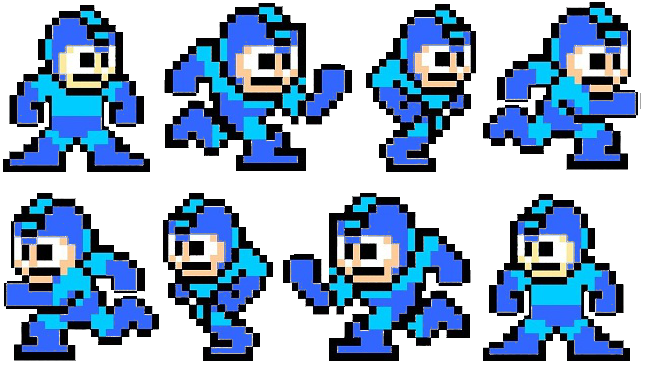
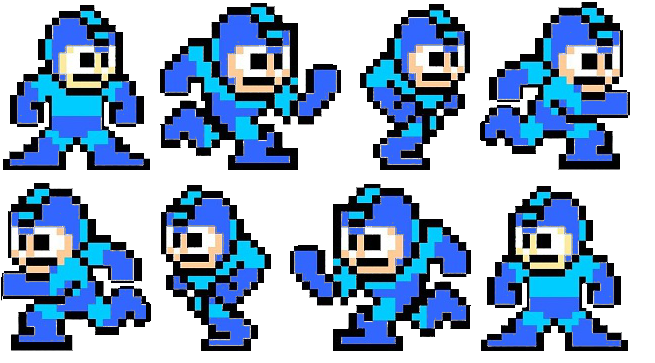
explosion sprite, background img
also made player movement better looking

diff --git a/main.js b/main.js
@@ -7,19 +7,10 @@ function init() {
 	projectile = [];
 	explosion = [];
 	platform = [];
+	lava_init(); //initializes lava attributes and animation
 	player_init(); //initializes player attributes
 	platform_init(); //creates platform objects. For now, is hardcoded, perhaps add randomization later
-	enemy_init();
-	lava.y = 500;
-	lava.vy = -.05;
-	lava.img = new Image();
-	lava.img.src = "lava.png";
-	lava.sx = [130, 100];
-	lava.sy = [690, 660];
-	lava.sWidth = [60, 20];
-	lava.sHeight = [10, 40];
-	lava.si = 0;
-	lava.sdelay = 0;
+	enemy_init(); //initializes enemy attributes
 	r_y = 0;
 	death_flag = false;
 	victory_flag = false;
@@ -29,28 +20,45 @@ function init() {
 	intervalId = setInterval(update, timerDelay); //starts the timer
 }
 
-//initializes player attributes
+//initializes lava attributes
+function lava_init() {
+	lava.y = 500;
+	lava.vy = -.01;
+	lava.img = new Image();
+	lava.img.src = "lava.png";
+	bkg_img.src = "lava_background.png";
+	lava.sx = [130, 100];
+	lava.sy = [690, 660];
+	lava.sWidth = [60, 20];
+	lava.sHeight = [10, 40];
+	lava.si = 0;
+	lava.sdelay = 0;
+}
+
+//initializes player attributes. 
+//Sprite movement is based on an index into the arrays of src img info needed to draw the image. 
 function player_init() {
 	player.vx = 0; 
 	player.vy = 0;
 	player.x = 0;
 	player.y = 360;
-	player.width = 17; //slightly smaller than actual img to account for player not actually "colliding" with enemy 
+	player.width_min = 24; //slightly smaller than actual img width to account for player not actually appearing to "collide" with enemy 
 	player.height = 40;
+	
 	player.img = new Image();
 	player.img.src = "megaman_run.png";
-	player.ri = 0; //0-5 for right, 6-11 for left
-	player.rundelay = 0; //TODO: make this a function of velocity
-	player.runx = [0,150,360,480,360,150, 0,160,280,480,280,160];
-	player.runy = [0, 190];
-	player.runwidth = [150,190,120,160,120,190, 160,100,190,150,190,100];
-	player.runheight = [170, 170];
-	/*
-	player.sx = 0;
-	player.sy = 0;
-	player.sWidth = 50;
-	player.sHeight = 103;
-	*/
+
+	player.ri = 0; //running index to determine which sprite is drawn in movement
+	player.rright = 5; //right movements are sprites 0-5
+	player.rleft = 11; //left movements are sprites 6-11
+	player.rdelay = 0; //determines when next sprite is drawn
+	player.rdelay_max = 5; //delays sprite image change so movement looks less choppy. TODO: make this a function of velocity	
+	//source img x, y coordinates and width/height
+	player.rx = [0,160,360,480,360,160, 480,290,160,0,160,290];
+	player.ry = [0, 180];
+	player.rWidth = [150,180,110,150,120,190, 150,180,110,150,110,180];
+	player.rHeight = [170, 170];
+	
 	player.i = 0;
 	
 }
@@ -94,39 +102,39 @@ function update() {
 	
 	//movement is done indirectly by giving a player acceleration. 
 	//note you can only accelerate
+	//moving left only (player.ri: 6-11)
     if (key_pressed_left && player.vy === 0) {
-		if (player.ri < 6)
-			player.ri = 6;
-		if (player.rundelay !== 3)
-			player.rundelay++;
+		if (player.ri <= (player.rright)) //changing direction from right to left
+			player.ri = (player.rright); //
+		if (player.rdelay !== player.rdelay_max) 
+			player.rdelay++;
 		else {
-			player.rundelay = 0;
-			player.ri++;
-			//console.log(player.ri, player.rundelay);
-			if (player.ri === 12)
-				player.ri = 7;
+			player.rdelay = 0; //reset delay
+			player.ri++; //draw next sprite
+			if (player.ri === (player.rleft+1)) //last left sprite so reset to first left sprite
+				player.ri = (player.rright+1);
 		}
 		
 		player.vx -= .06;
 		//player.vx = Math.max(player.vx - .06, -1 * max_speed);
 	}
+	//moving right only (player.ri: 0-5)
     if (key_pressed_right && player.vy === 0) {
-		if (player.ri > 5)
+		if (player.ri > player.rright) //changing direction from left to right
 			player.ri = 0;
-		if (player.rundelay !== 3)
-			player.rundelay++;
+		if (player.rdelay !== player.rdelay_max)
+			player.rdelay++;
 		else {
-			player.rundelay = 0;
-			player.ri++;
-			//console.log(player.ri, player.rundelay);
-			if (player.ri === 6)
+			player.rdelay = 0; //reset delay
+			player.ri++; //draw next sprite
+			if (player.ri === (player.rright+1)) //last right sprite so reset to first right sprite
 				player.ri = 0;
 		}
 		
 		player.vx += .06;
 		//player.vx = Math.min(player.vx + .06, max_speed);
     }
-	//console.log(platform[0].vx);
+	player.width = (player.rWidth[player.ri]/player.rWidth[0])*player.width_min;
 	player.x += player.vx + platform[player.i].vx;
 	player.y += player.vy + platform[player.i].vy;
 	update_platforms();
@@ -170,6 +178,10 @@ function update() {
 	}
 	update_enemies();
 	draw();
+}
+
+function update_player() {
+
 }
 
 function update_platforms() {
@@ -376,24 +388,25 @@ function detect_collision(obj1, obj2) {
 	return false;
 }
 
-
 //draws our board
 function draw() {
 	var i = 0;
-	ctx.clearRect(0,0,400,500);
+	ctx.clearRect(0,0,canvas.width,canvas.height);
+	
+	//draw the background image
+	ctx.drawImage(bkg_img, 0, 0, bkg_img.width, bkg_img.height, 0, 0, canvas.width, canvas.height);
 	ctx.fillStyle = "black";
-		//ctx.fillRect(player.x, player.y + r_y, 40,40);
 	while (i < platform.length) {
 		ctx.fillRect(platform[i].x, platform[i].y + r_y, platform[i].width, platform[i].height);
 		i++;
 	}
 	
 	//draw the player
-	ctx.drawImage(player.img, player.runx[player.ri], player.runy[Math.floor(player.ri/7)], 
-					player.runwidth[player.ri], 170, player.x, player.y, 24, 40);
-
+	ctx.drawImage(player.img, player.rx[player.ri], player.ry[Math.floor((player.ri+1)/7)], 
+					player.rWidth[player.ri], 170, player.x, player.y, player.width, player.height);
+					
+	//draw the lava and animations
 	ctx.fillStyle = "red";
-	console.log(canvas.height);
 	ctx.fillRect(0, lava.y + r_y, canvas.width, canvas.height - lava.y);
 	if (lava.y < (canvas.height - lava.sHeight[0])) {
 		ctx.drawImage(lava.img, lava.sx[0], lava.sy[0], lava.sWidth[0], lava.sHeight[0], 20, lava.y, lava.sWidth[0], lava.sHeight[0]);
@@ -402,6 +415,8 @@ function draw() {
 	ctx.drawImage(lava.img, lava.sx[1], lava.sy[1], lava.sWidth[1], lava.sHeight[1], 100, lava.y-lava.sHeight[1], lava.sWidth[1], lava.sHeight[1]);
 	
 	//ctx.fillRect(player.x, player.y + (player.height/2) + r_y, 40, 2);
+	
+	//draw projectiles and explosions
 	i = 0;
 	while (i < projectile.length) {
 		//ctx.fillRect(projectile[i].x, projectile[i].y, projectile_width, projectile_height);
@@ -419,7 +434,9 @@ function draw() {
 		//simply sharing the same corner as the projectile.
 		
 		//ctx.fillRect(explosion[i].x - explosion_diameter/2, explosion[i].y - explosion_diameter/2, explosion_diameter, explosion_diameter);
-		ctx.fillRect(explosion[i].x - explosion[i].width/2, explosion[i].y - explosion[i].height/2 + r_y, explosion[i].width, explosion[i].height);
+		var ei = explosion[i].si;
+		ctx.drawImage(explosion[i].img, explosion[i].sx[ei], explosion[i].sy[ei], explosion[i].sWidth[ei], explosion[i].sHeight[ei], explosion[i].x - explosion[i].width/2, explosion[i].y - explosion[i].height/2 + r_y, explosion[i].width, explosion[i].height);
+		//ctx.fillRect(explosion[i].x - explosion[i].width/2, explosion[i].y - explosion[i].height/2 + r_y, explosion[i].width, explosion[i].height);
 		explosion[i].time +=1;
 		if (explosion[i].time === explosion_timeout) {
 			explosion.splice(i,1);
@@ -428,7 +445,6 @@ function draw() {
 			i++;
 		}
 	}
-	
 	//draw the enemies
 	ctx.fillStyle = "blue";
 	i = 0;

diff --git a/constructors.js b/constructors.js
@@ -1,7 +1,7 @@
 var projectile_height = 10;
 var projectile_width = 10;
 var projectile_speed = 4;
-var explosion_diameter = 20;
+var explosion_diameter = 40;
 
 //Platform constructor. x is leftmost point. 
 function Platform(x, y, width, horizontal, vertical) {
@@ -34,12 +34,12 @@ function Enemy(x, y, width, i) {
 	this.width = enemy_width;
 	this.height = enemy_height;
 	this.img = new Image();
-	this.img.src = "enemy1.png";
+	this.img.src = "enemy1_2.png";
+	this.si = 0; //left: 0-4, right: 5-9
 	this.sx = [0,40,80,115,150, 490,525,565,605,640];
 	this.sy = [0];
 	this.sWidth = [35,30,30,30,30, 30,35,30,30,30];
 	this.sHeight = [50];
-	this.si = 0;
 	this.sdelay = 0;
 	this.i = i
 }
@@ -50,6 +50,14 @@ function Explosion(x,y) {
 	this.width = explosion_diameter;
 	this.height = explosion_diameter;
 	this.time = 0;
+	this.img = new Image();
+	this.img.src = "explosion_1.png";
+	this.si = 2;
+	this.sx = [0,14,35,64];
+	this.sy = [16,10,2,1];
+	this.sWidth = [10,16,25,25];
+	this.sHeight = [9,15,23,24];
+	this.sdelay = 0;
 }
 
 //Projectile constructor. 

diff --git a/constants.js b/constants.js
@@ -6,6 +6,7 @@ var platform = []; //list of platform objects
 var enemy_list = [];
 var projectile = [];
 var explosion = [];
+var bkg_img = new Image();
 var canvas = document.getElementById("myCanvas");
 var ctx = canvas.getContext("2d");
 var intervalId;
@@ -43,7 +44,6 @@ var r_y = 0;
 var death_flag = false;
 var victory_flag = false;
 var invinc_flag = false;
-
 
 //enemy constants
 
